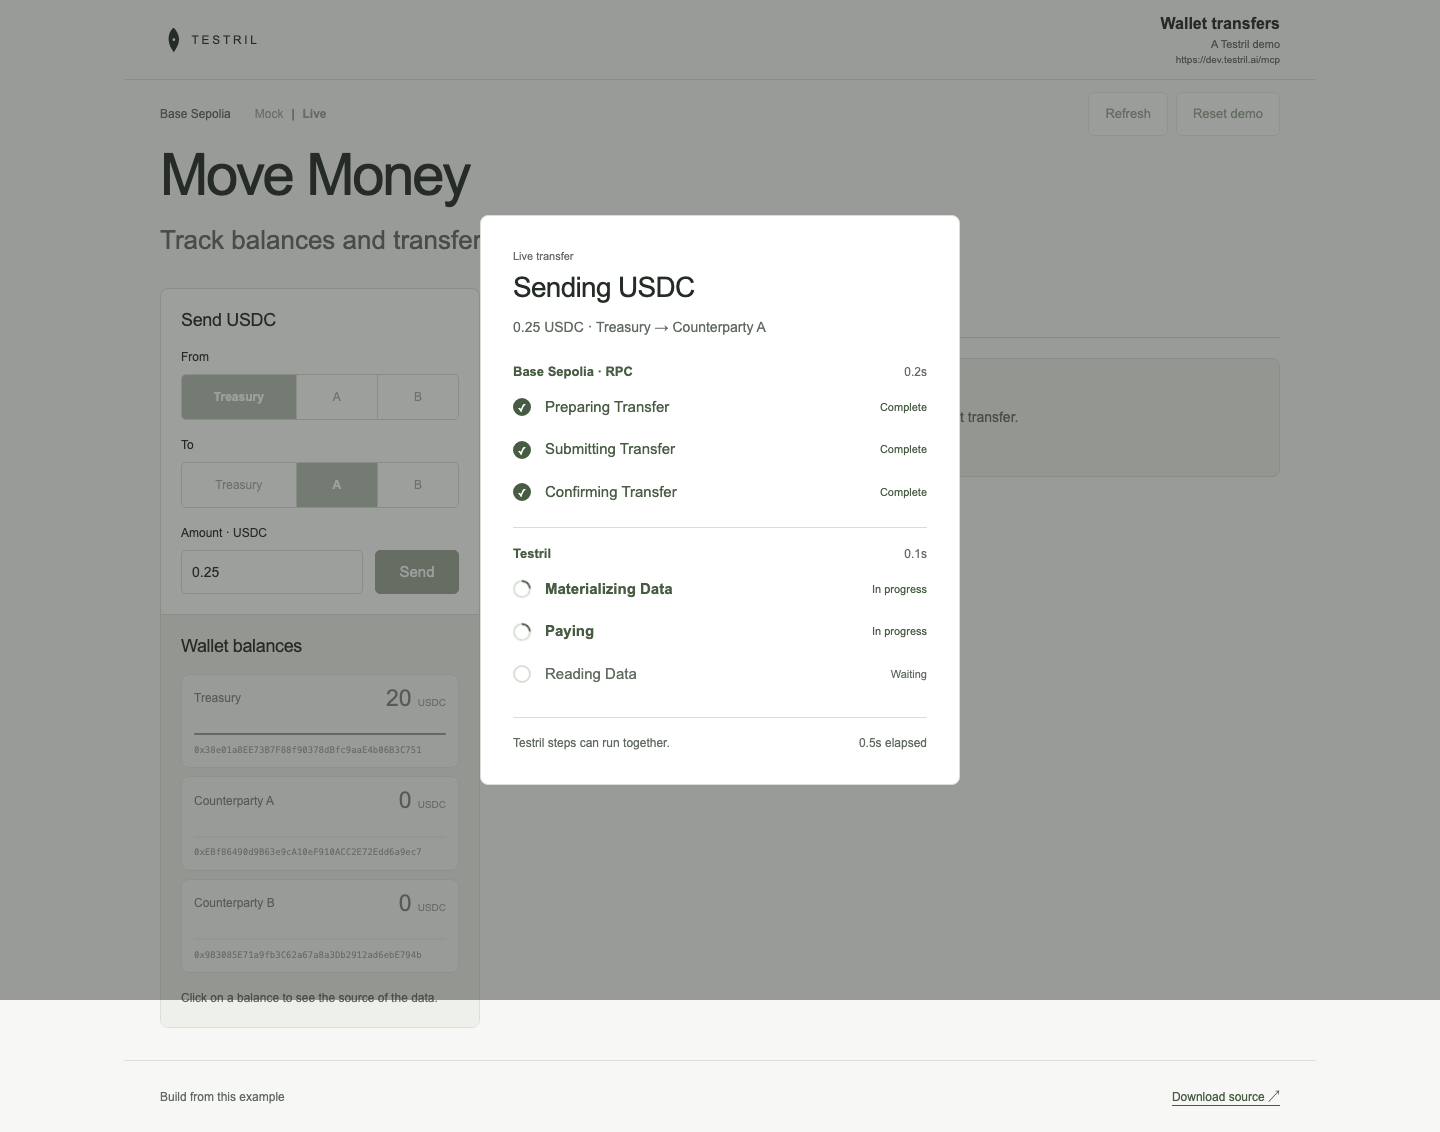
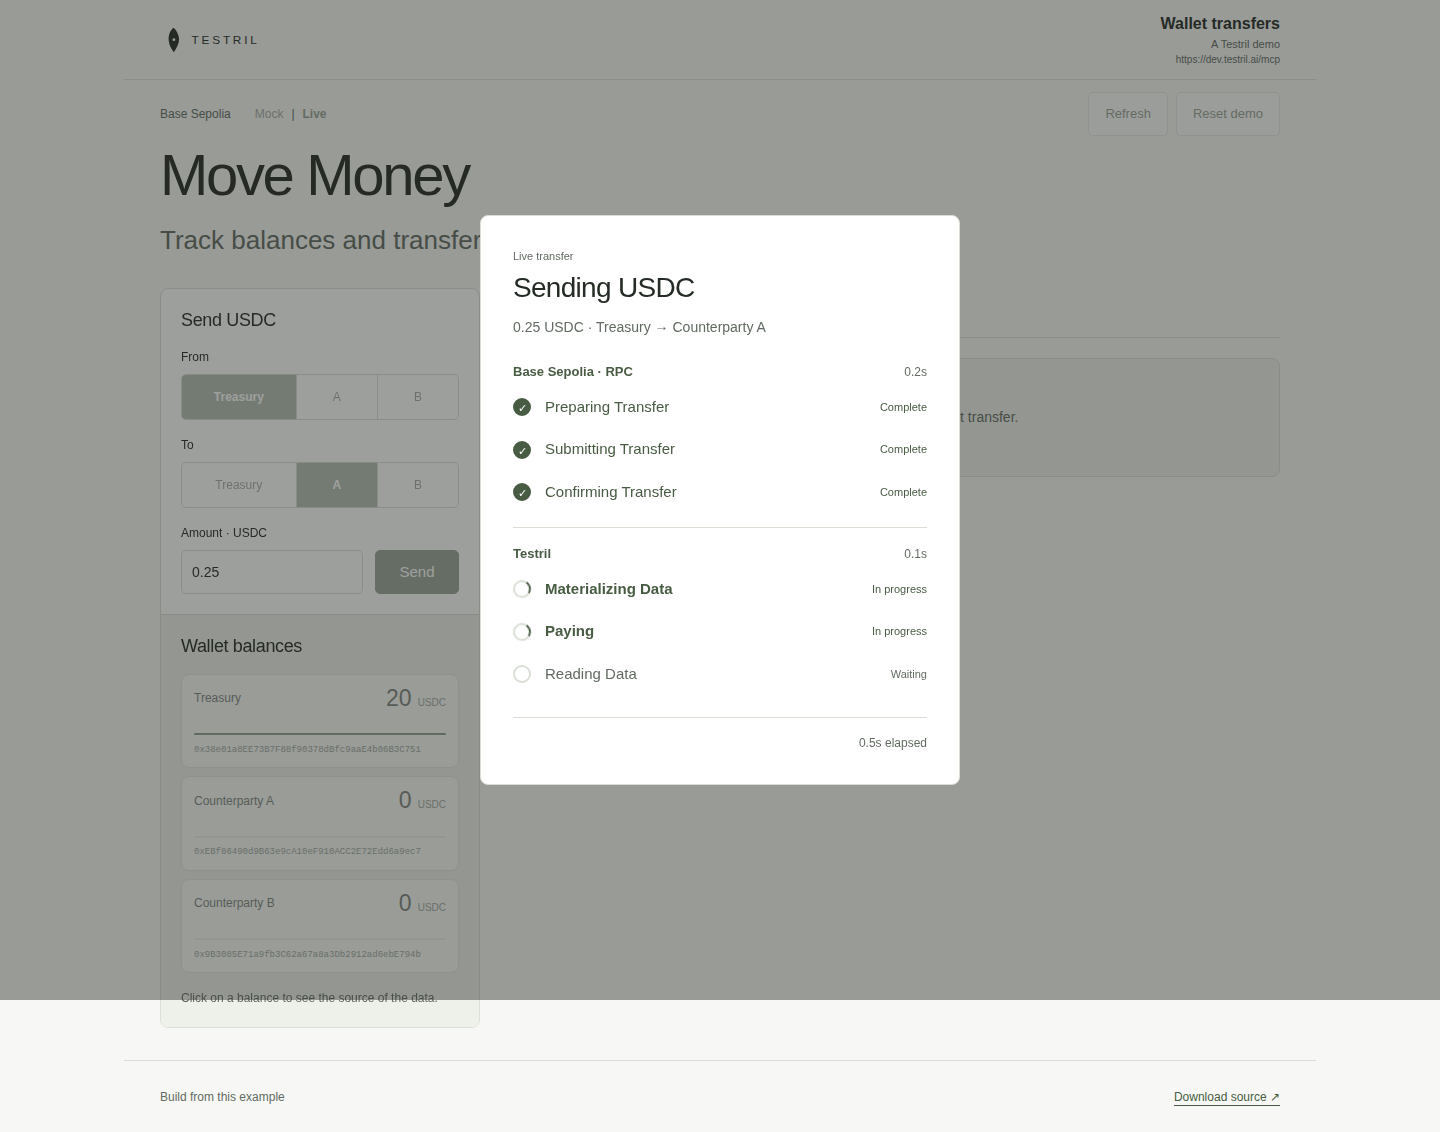
Trim the finished Live Send summary
Drop the Live transfer label and the repeated section and elapsed times
from the finished summary. Keep the Chain and Testril totals, step names,
and Complete status. Remove the overlapping-steps sentence from every
state.

diff --git a/demos/treasury-analysis/public/app.js b/demos/treasury-analysis/public/app.js
@@ -489,10 +489,14 @@ function showTransferProgress(input, started) {
   };
   $("progress-summary").textContent =
     `${input.amount} USDC · ${name(input.from)} → ${name(input.to)}`;
+  $("progress-eyebrow").hidden = false;
   $("progress-result").hidden = true;
   $("progress-error").hidden = true;
   $("progress-error").textContent = "";
   $("close-progress").hidden = true;
+  $("rpc-progress-elapsed").hidden = false;
+  $("testril-progress-elapsed").hidden = false;
+  $("progress-footer").hidden = false;
   const elapsed = () => {
     $("progress-elapsed").textContent =
       `${((performance.now() - started) / 1000).toFixed(1)}s elapsed`;
@@ -559,6 +563,10 @@ function showTransferProgress(input, started) {
       $("progress-activity").textContent = error
         ? error.message
         : "Send finished.";
+      $("progress-eyebrow").hidden = true;
+      $("rpc-progress-elapsed").hidden = true;
+      $("testril-progress-elapsed").hidden = true;
+      $("progress-footer").hidden = true;
       $("close-progress").hidden = false;
       finished = true;
       $("close-progress").focus({ preventScroll: true });

diff --git a/demos/treasury-analysis/public/index.html b/demos/treasury-analysis/public/index.html
@@ -235,7 +235,7 @@
       aria-labelledby="progress-heading"
       aria-describedby="progress-summary"
     >
-      <p class="eyebrow">Live transfer</p>
+      <p id="progress-eyebrow" class="eyebrow">Live transfer</p>
       <div class="section-top">
         <h2 id="progress-heading" tabindex="-1">Sending USDC</h2>
         <button
@@ -314,9 +314,8 @@
         role="status"
         aria-live="polite"
       ></p>
-      <div class="progress-footer small muted">
-        <span>Testril steps can run together.</span
-        ><span id="progress-elapsed"></span>
+      <div id="progress-footer" class="progress-footer small muted">
+        <span id="progress-elapsed"></span>
       </div>
     </dialog>
     <dialog

diff --git a/demos/treasury-analysis/public/style.css b/demos/treasury-analysis/public/style.css
@@ -703,7 +703,7 @@ dialog::backdrop {
 }
 .progress-footer {
   display: flex;
-  justify-content: space-between;
+  justify-content: flex-end;
   gap: 12px;
   border-top: 1px solid var(--line);
   margin-top: 24px;

diff --git a/demos/treasury-analysis/docs/live.md b/demos/treasury-analysis/docs/live.md
@@ -107,18 +107,20 @@ steps. Use the interface to recover an unrelated run.
 
 Live Send opens a progress modal with separate **Base Sepolia · RPC** and
 **Testril** sections. RPC shows preparation, submission, and confirmation; Testril
-shows materialization, payment, and reading. Each section shows its wall-clock
-time, alongside the total elapsed time. The RPC timer stops when the transfer is
-confirmed; Testril time includes its parallel work without adding overlapping
-call durations. Activity comes from the running server operation. Local progress
-checks add no Testril calls or charges. When the send finishes, the modal stays
-open. A summary at the top shows the measured Chain and Testril durations, and
-the step list stays underneath with its Base Sepolia · RPC and Testril headings.
-Close or Escape dismisses it. Cached steps are marked “Not needed.” To verify
-visually, send a small Live transfer: the modal should show the amount and
-wallet pair, update its active steps, then stay open with that summary. Failure
-keeps the modal open with the error until dismiss; the error also remains beside
-Send.
+shows materialization, payment, and reading. While the send is running, each
+section shows its wall-clock time, alongside the total elapsed time. The RPC
+timer stops when the transfer is confirmed; Testril time includes its parallel
+work without adding overlapping call durations. Activity comes from the running
+server operation. Local progress checks add no Testril calls or charges. When
+the send finishes, the modal stays open. A summary at the top shows the measured
+Chain and Testril durations. The step list stays underneath with its Base
+Sepolia · RPC and Testril headings, step names, and status. That finished
+summary leaves out the Live transfer label and the section and elapsed times,
+which repeat the totals above. Close or Escape dismisses it. Cached steps are
+marked “Not needed.” To verify visually, send a small Live transfer: the modal
+should show the amount and wallet pair, update its active steps, then stay open
+with that summary. Failure keeps the modal open with the error until dismiss;
+the error also remains beside Send.
 
 ## How indexing and reads work
 
